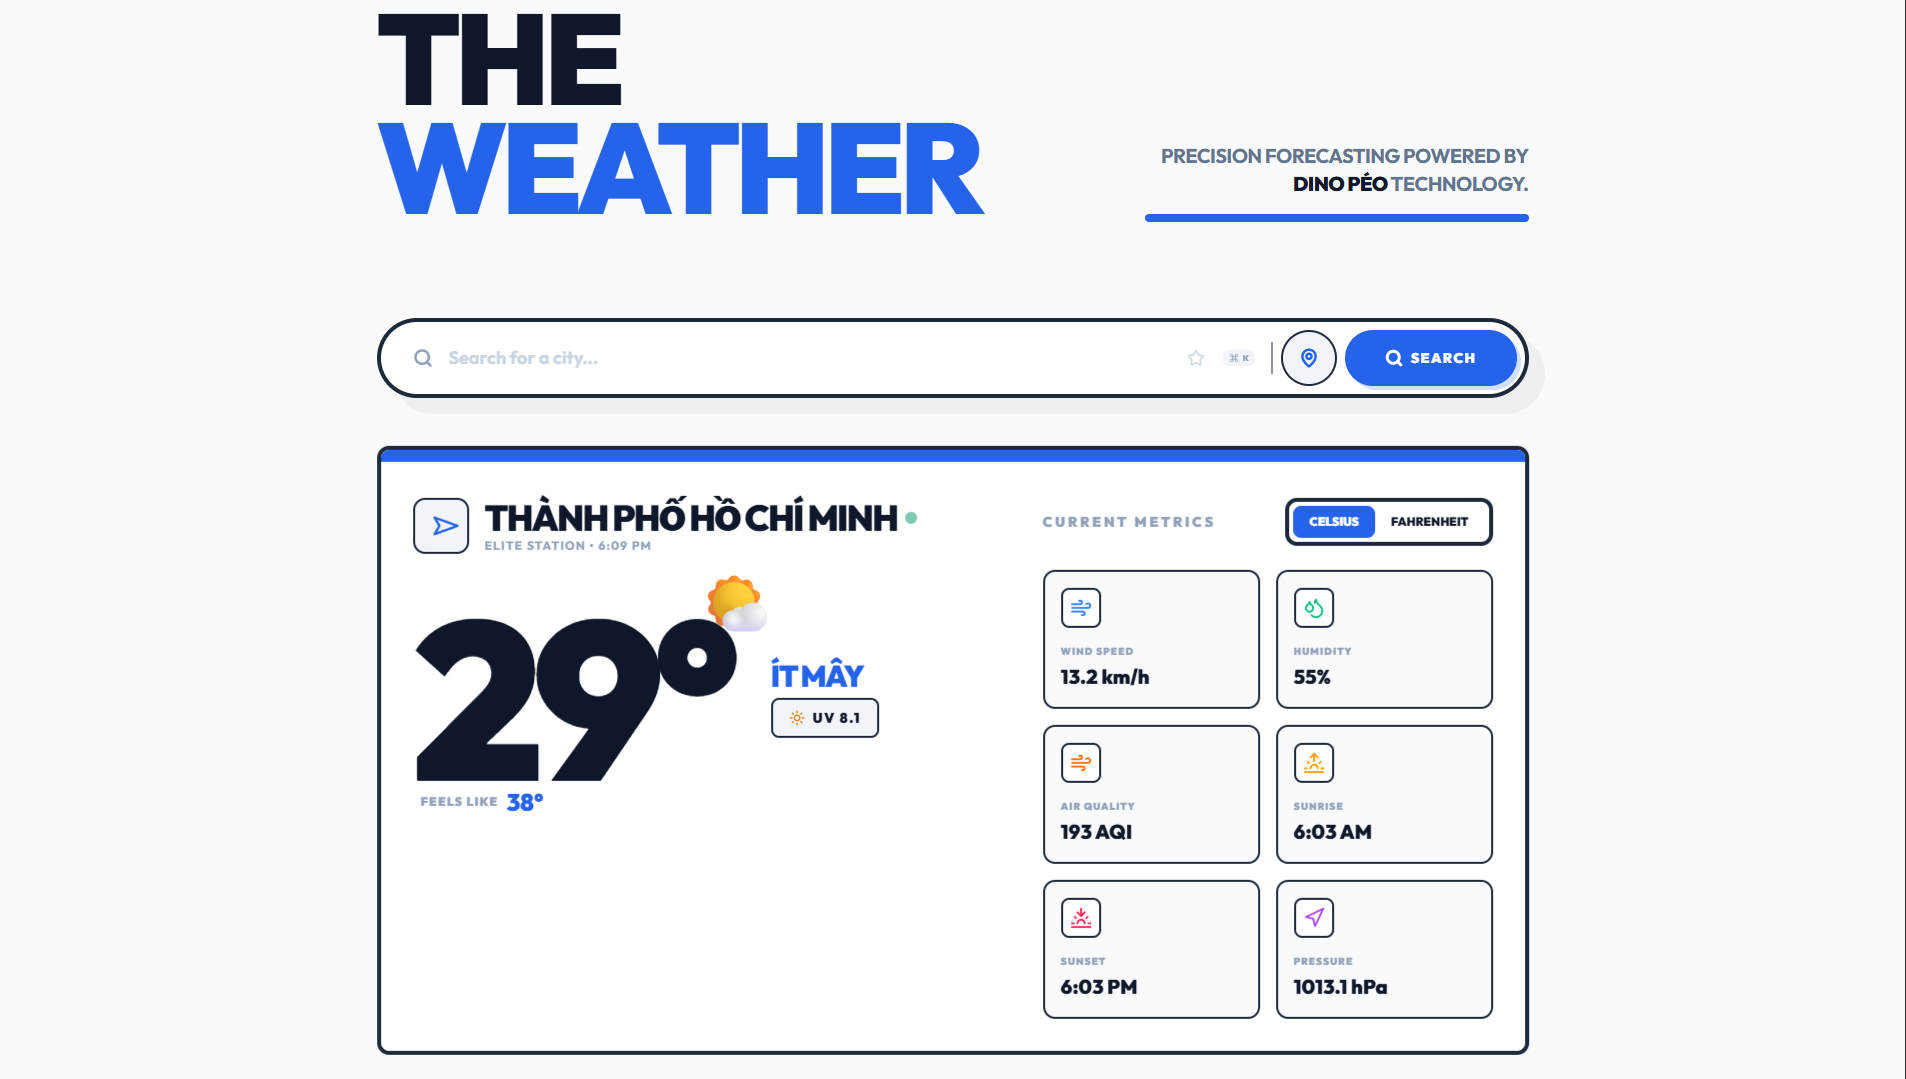
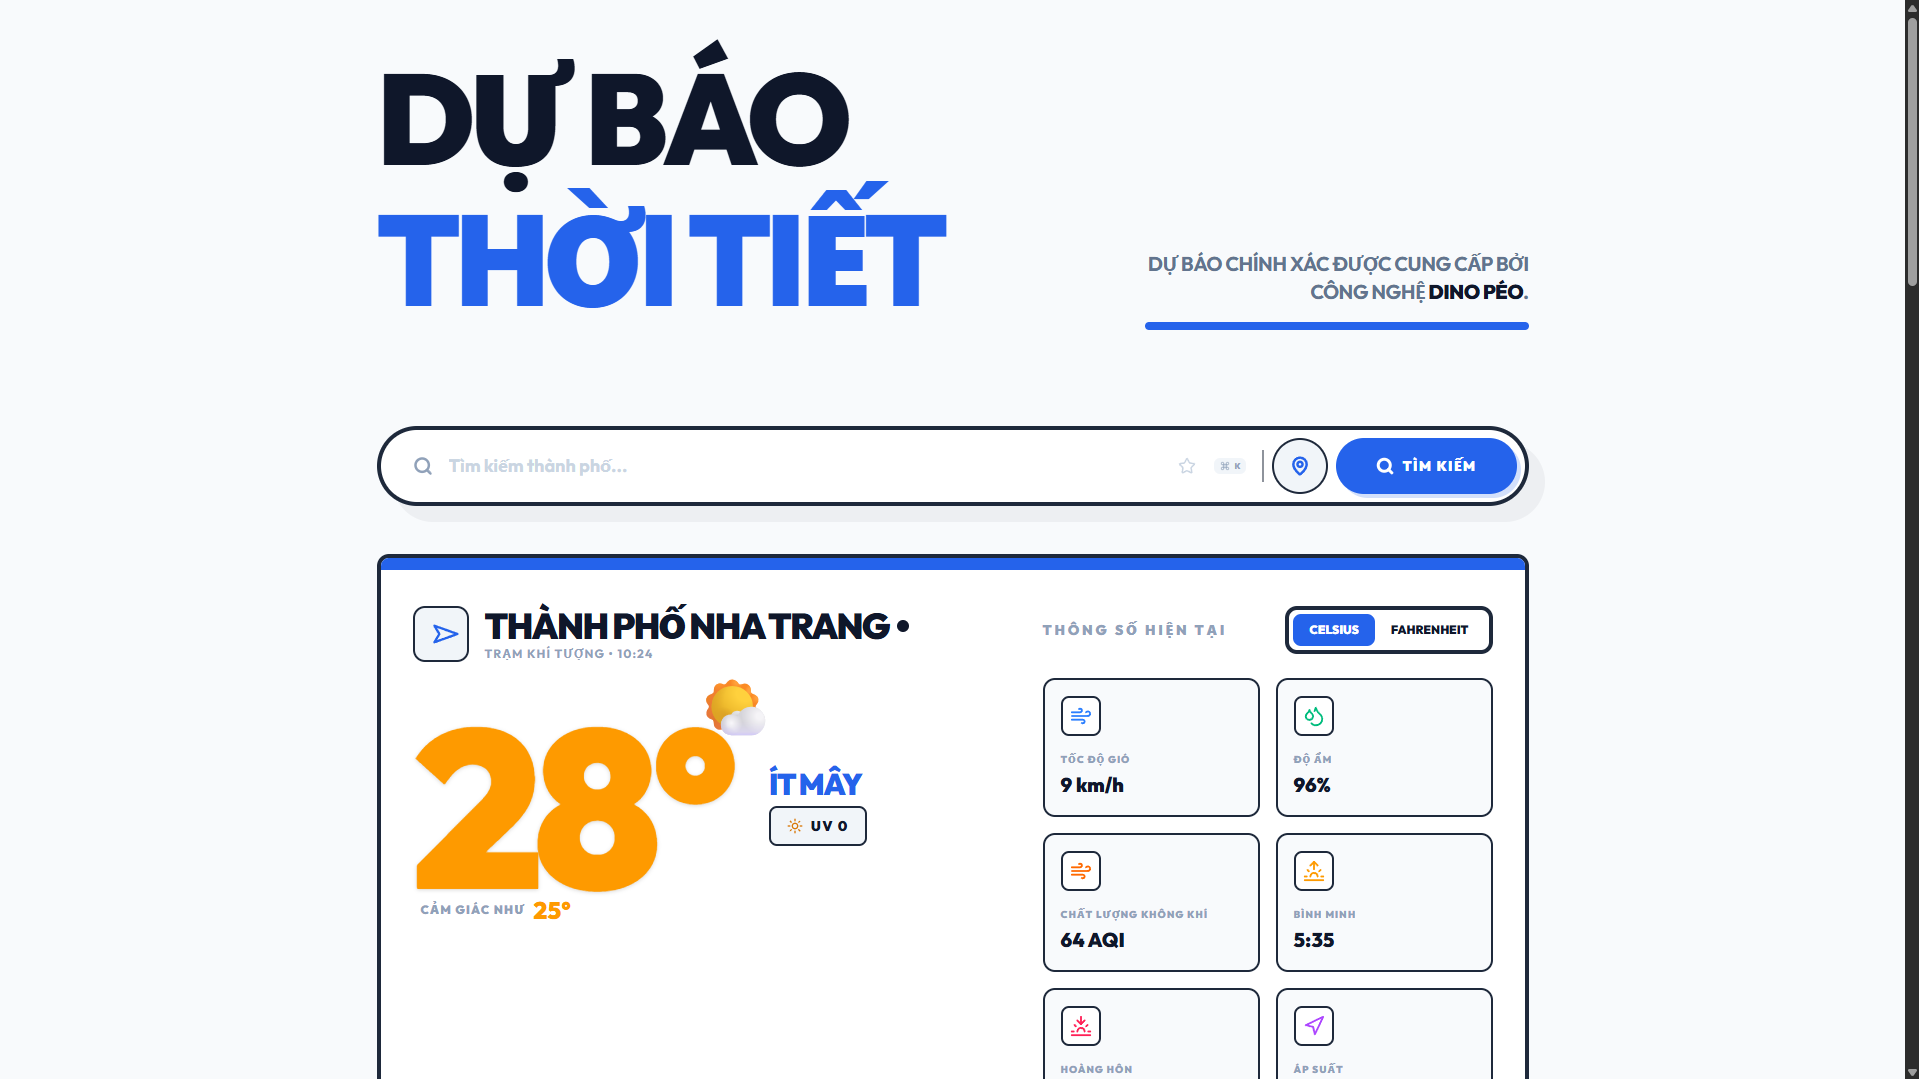
Optimize layout and fix text overlapping issues in header and forecast lists
- Increased line-height for the main title to prevent Vietnamese accents from overlapping
- Removed redundant small 'Dự báo thời tiết' label in the App header
- Increased gap between forecast cards in ForecastList and HourlyForecast for better visual breathing room

Changed region(s): [[0.1857, 0.0, 0.8048, 1.0], [0.9906, 0.0, 1.0, 1.0], [0.1857, 0.3364, 0.2167, 0.367]]

diff --git a/src/App.tsx b/src/App.tsx
@@ -36,16 +36,10 @@ export default function App() {
       <main className="max-w-6xl mx-auto relative z-10">
         <header className="mb-16 md:mb-24 flex flex-col md:flex-row md:items-end justify-between gap-8">
           <div>
-            <div className="flex items-center gap-3 mb-4">
-              <div className="p-2 bg-flat-primary rounded-lg text-white">
-                <Sparkles size={24} />
-              </div>
-              <span className="text-sm font-black uppercase tracking-[0.2em] text-flat-primary">Dự báo thời tiết</span>
-            </div>
             <motion.h1
               initial={{ x: -50, opacity: 0 }}
               animate={{ x: 0, opacity: 1 }}
-              className="text-6xl md:text-[8rem] font-black text-flat-fg tracking-tighter uppercase leading-[0.85]"
+              className="text-6xl md:text-[8rem] font-black text-flat-fg tracking-tighter uppercase leading-[1.1]"
             >
               Dự báo <br />
               <span className="text-flat-primary">thời tiết</span>

diff --git a/src/features/weather/components/ForecastList.tsx b/src/features/weather/components/ForecastList.tsx
@@ -84,7 +84,7 @@ export default function ForecastList() {
           className="overflow-x-auto scrollbar-hide py-10 px-4 -mx-4"
           style={{ scrollbarWidth: "none", msOverflowStyle: "none" }}
         >
-          <div className="flex gap-6 min-w-max">
+          <div className="flex gap-10 min-w-max">
             {daily.map((d, idx) => {
               const info = getWeatherInfo(d.weatherCode);
               const active = selectedDate === d.date;

diff --git a/src/features/weather/components/HourlyForecast.tsx b/src/features/weather/components/HourlyForecast.tsx
@@ -88,7 +88,7 @@ export default function HourlyForecast() {
           onMouseUp={handleMouseUp}
           onMouseMove={handleMouseMove}
         >
-          <div className="flex gap-6 min-w-max">
+          <div className="flex gap-10 min-w-max">
             {filteredHourly.map((h, idx) => {
               const info = getWeatherInfo(h.weatherCode);
               const hourLabel = formatHour(h.time, selectedDate);
